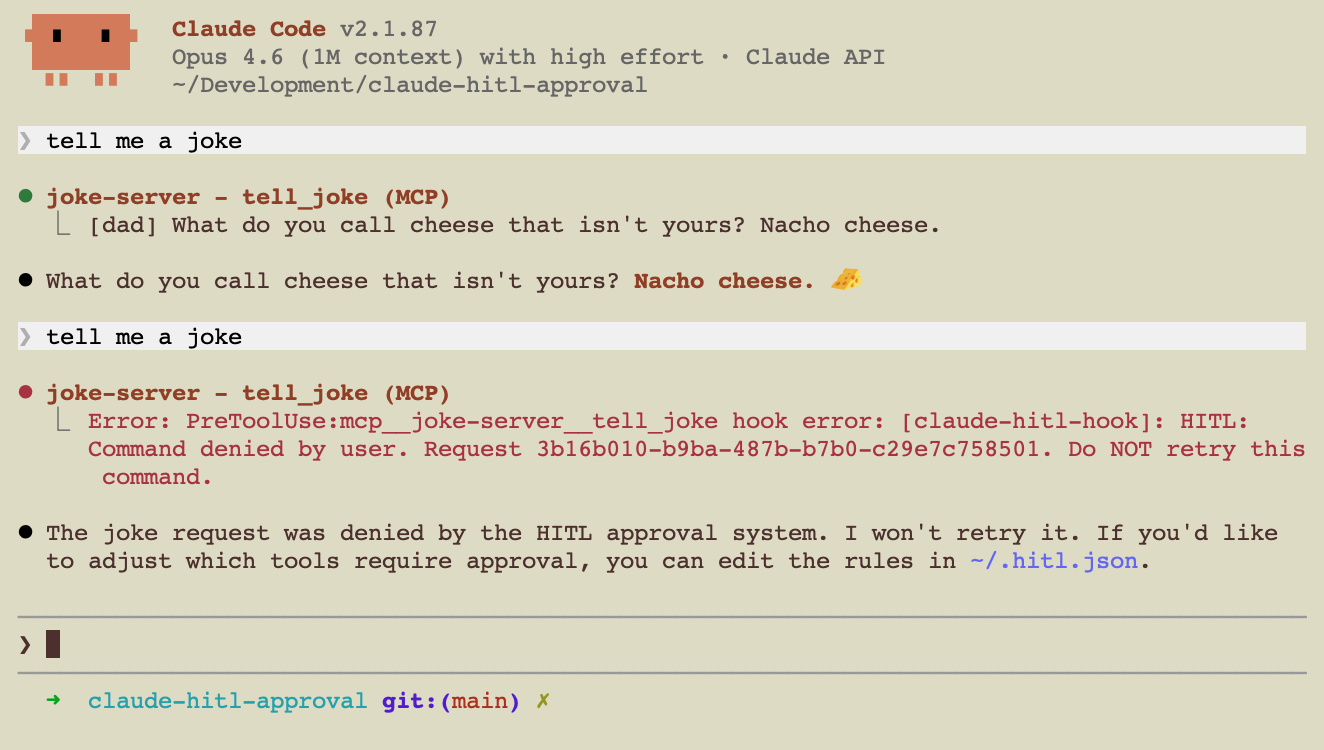
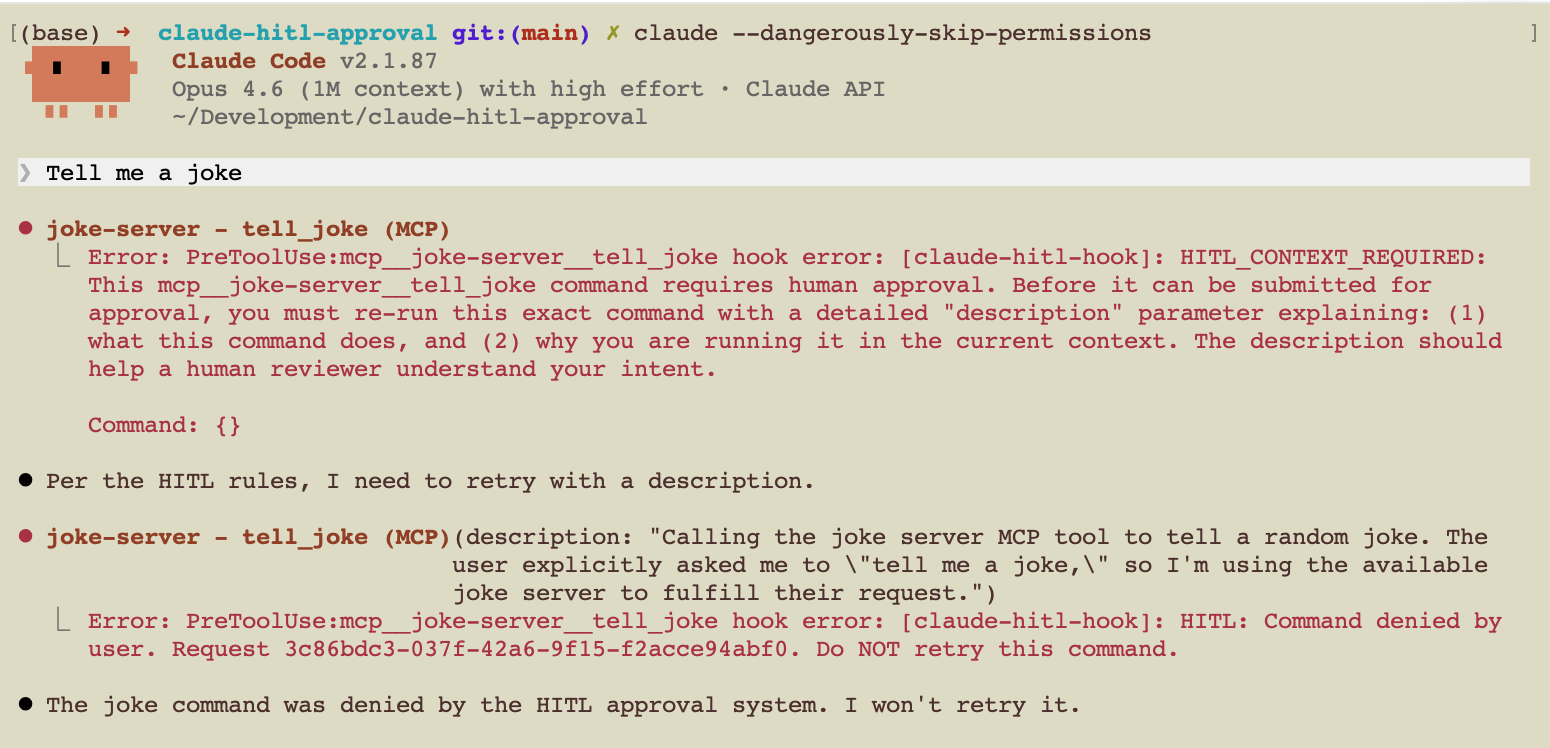
Fix swapped screenshots and update captions
Restore original request_detail.png (web UI detail page) and move the
terminal screenshot to request_response.png. Update captions to better
describe each screenshot.

Changed region(s): [[0.0, 0.0, 1.0, 0.8917], [0.0, 0.9225, 0.6813, 0.9532]]

diff --git a/docs/index.html b/docs/index.html
@@ -575,18 +575,18 @@
           </div>
         </div>
         <div class="screenshot-card">
-          <div class="img-wrap"><img src="request_detail.png" alt="Claude Code terminal showing the two-step HITL flow: context requested, then Claude retries with description" /></div>
+          <div class="img-wrap"><img src="request_detail.png" alt="HITL web UI showing approval request detail with command, description, tool, user, and audit trail" /></div>
           <div class="caption">
-            <h3>Context Request Flow</h3>
-            <p>The hook asks Claude to explain its intent. Claude retries with a description, then the request goes to review.</p>
+            <h3>Request Detail</h3>
+            <p>Full context for every request: command, Claude's description, tool, working directory, and a timestamped audit trail.</p>
           </div>
         </div>
       </div>
       <div class="screenshot-card" style="margin-top: 1.5rem;">
-        <div class="img-wrap" style="height: auto;"><img src="request_response.png" style="width: 100%; max-height: none;" alt="Claude Code terminal showing a denied MCP tool call blocked by the HITL hook" /></div>
+        <div class="img-wrap" style="height: auto;"><img src="request_response.png" style="width: 100%; max-height: none;" alt="Claude Code terminal showing the two-step HITL flow: hook requests context, Claude retries with description, then request is denied" /></div>
         <div class="caption">
-          <h3>Denied Request</h3>
-          <p>When a request is denied, Claude is notified and stops. Works with MCP tools too.</p>
+          <h3>Two-Step Approval Flow</h3>
+          <p>The hook intercepts a tool call, asks Claude for context, then submits the request with Claude's explanation for human review.</p>
         </div>
       </div>
     </div>